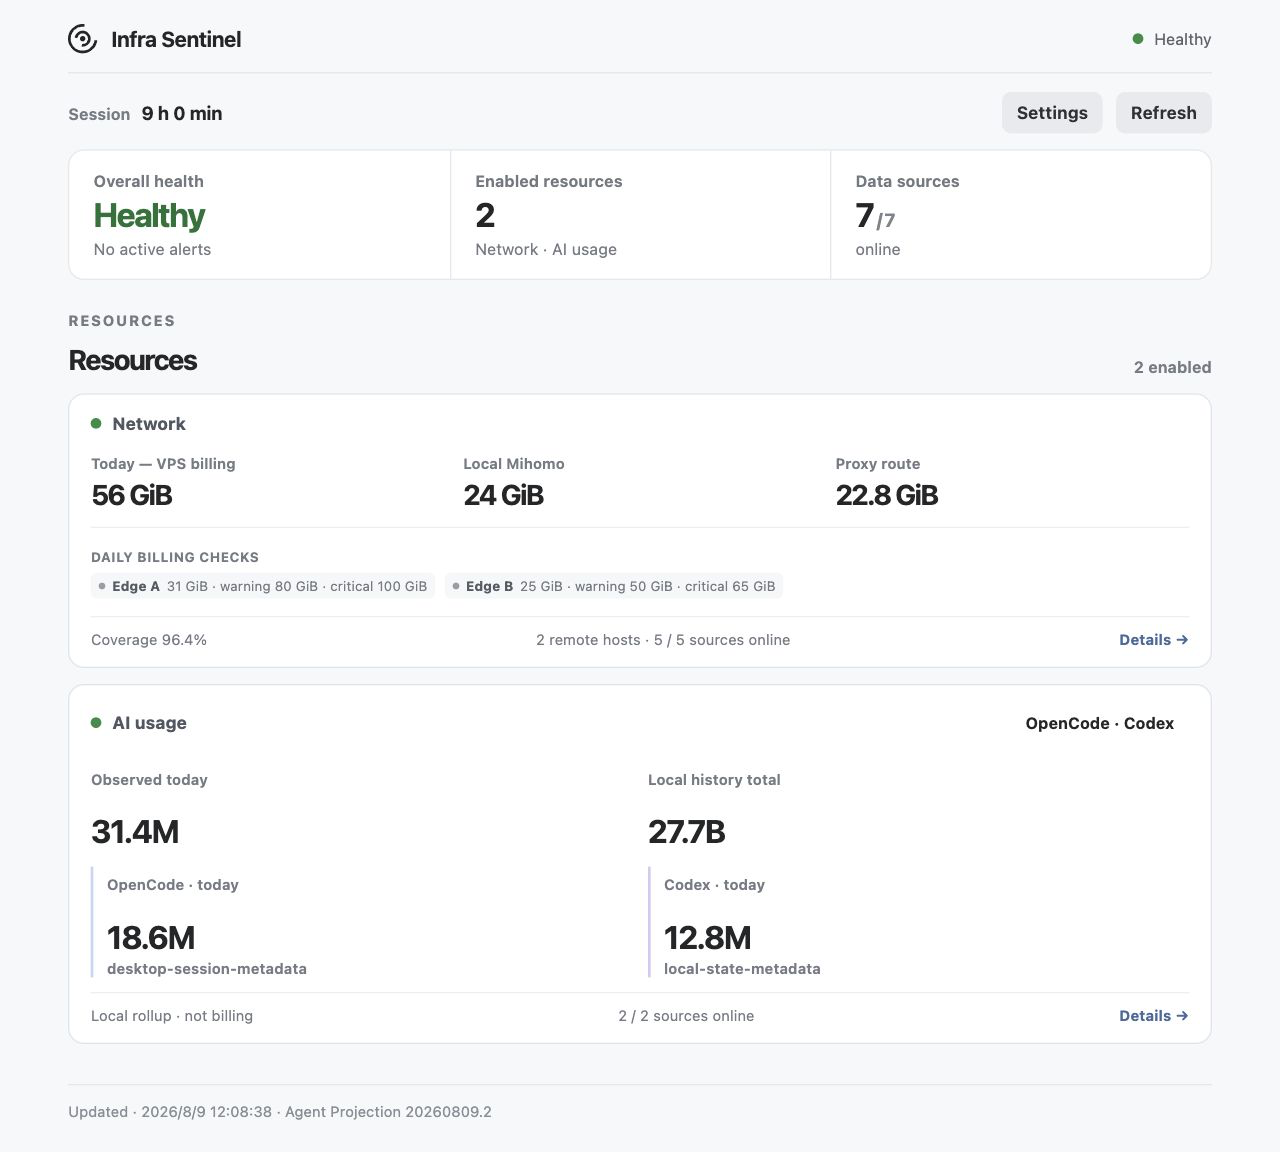
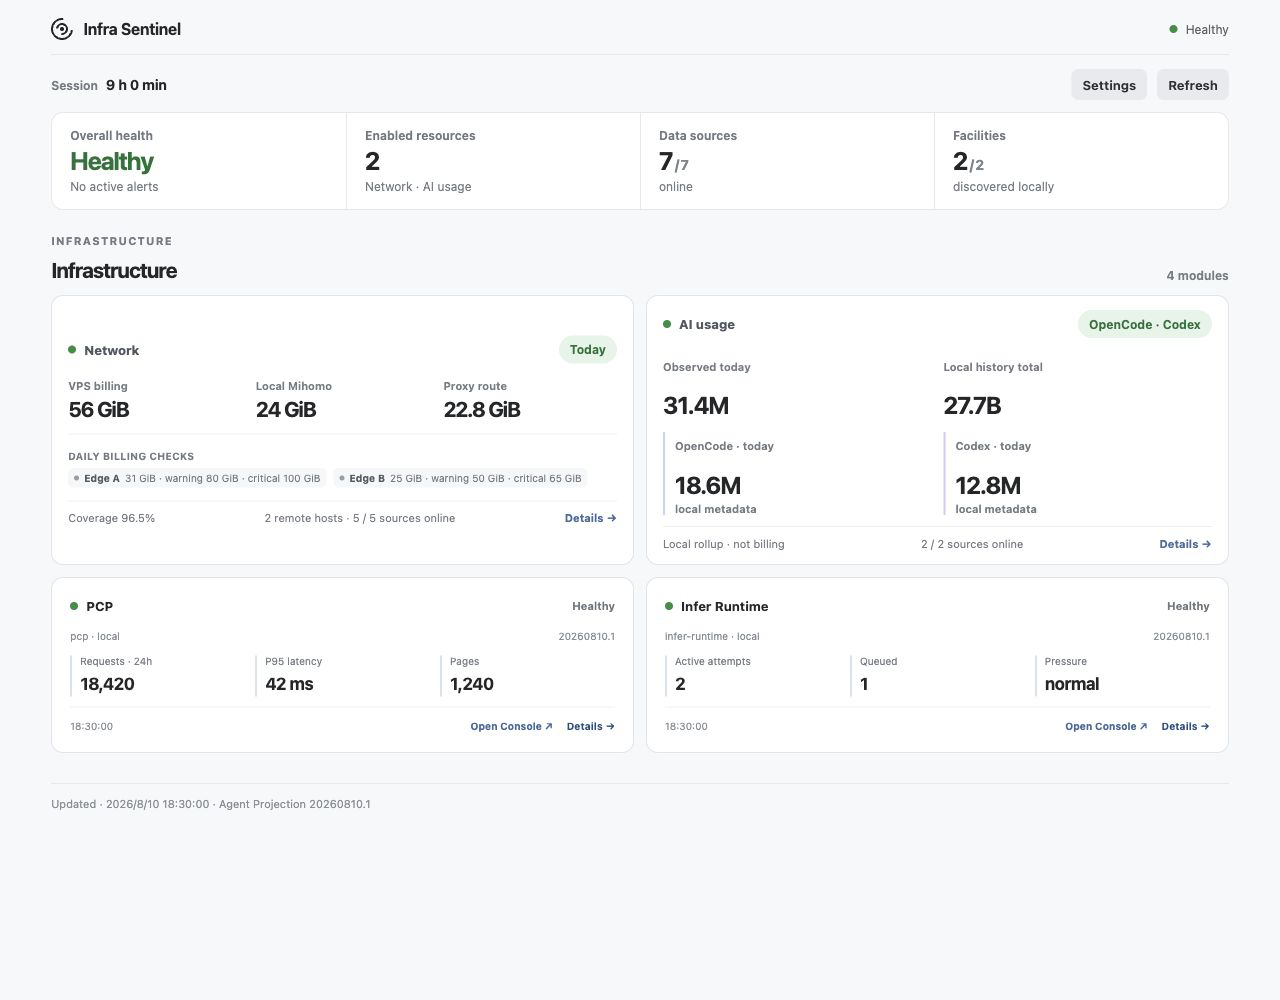
fix: refine docs and AI usage charts

diff --git a/ui/src/ai_usage_view.ts b/ui/src/ai_usage_view.ts
@@ -17,6 +17,10 @@ function escapeHtml(value: unknown): string {
   return String(value ?? "").replace(/[&<>'"]/g, (char) => ({ "&": "&amp;", "<": "&lt;", ">": "&gt;", "'": "&#039;", '"': "&quot;" })[char] ?? char);
 }
 
+function modelLabel(identifier: string): string {
+  return identifier === "__unattributed__" ? tr("Missing model metadata", "缺少模型信息") : identifier;
+}
+
 function localized(value: unknown): string {
   const text = asRecord(value);
   return String(text[currentLocale() === "zh" ? "zh" : "en"] ?? text.en ?? text.zh ?? "");
@@ -75,10 +79,13 @@ function renderCurrentSummary(providerSources: Record<string, unknown>[], source
   return `<section class="ai-usage-summary"><article><p>${tr("Observed today", "今日已观测")}</p><strong>${formatTokens(today)}</strong><small>${tr("Available source windows combined", "合并当前可用来源窗口")}</small></article><article><p>${tr("Local history total", "本机历史总量")}</p><strong>${formatTokens(cumulative)}</strong><small>${tr("All readable local records · not billing", "全部可读本地记录 · 非账单")}</small></article><article><p>${tr("Collector coverage", "采集覆盖")}</p><strong>${online} / ${sources.length}</strong><small>${tr("sources online", "个来源在线")}</small></article><div class="ai-window-coverage"><b>${tr("Window coverage", "统计窗口")}</b>${coverage}</div></section>`;
 }
 
-function horizontalBars(title: string, detail: string, totals: Map<string, number>, colors: string[]): string {
+function horizontalBars(
+  title: string, detail: string, totals: Map<string, number>, colors: string[],
+  labelFor: (identifier: string) => string = (identifier) => identifier,
+): string {
   const ranked = [...totals.entries()].sort((left, right) => right[1] - left[1]).slice(0, 8);
   const maximum = Math.max(...ranked.map(([, value]) => value), 1);
-  return `<article class="detail-panel ai-ranked-panel"><div class="detail-panel__heading"><h3>${escapeHtml(title)}</h3><span>${escapeHtml(detail)}</span></div><div class="ai-ranked-bars">${ranked.map(([label, value], index) => `<div class="ai-ranked-bar"><div><span><i class="chart-dot" style="background:${colors[index % colors.length]}"></i>${escapeHtml(label === "__unattributed__" ? tr("Unattributed", "未归因") : label)}</span><strong>${formatTokens(value)}</strong></div><p><i style="background:${colors[index % colors.length]};width:${Math.max(1, value / maximum * 100)}%"></i></p></div>`).join("") || `<div class="chart-empty">${tr("Waiting for recorded Token increments.", "等待已记录的 Token 增量。")}</div>`}</div></article>`;
+  return `<article class="detail-panel ai-ranked-panel"><div class="detail-panel__heading"><h3>${escapeHtml(title)}</h3><span>${escapeHtml(detail)}</span></div><div class="ai-ranked-bars">${ranked.map(([label, value], index) => `<div class="ai-ranked-bar"><div><span><i class="chart-dot" style="background:${colors[index % colors.length]}"></i>${escapeHtml(labelFor(label))}</span><strong>${formatTokens(value)}</strong></div><p><i style="background:${colors[index % colors.length]};width:${Math.max(1, value / maximum * 100)}%"></i></p></div>`).join("") || `<div class="chart-empty">${tr("Waiting for recorded Token increments.", "等待已记录的 Token 增量。")}</div>`}</div></article>`;
 }
 
 function dailyHistory(
@@ -89,7 +96,7 @@ function dailyHistory(
   const visible = [...totals.entries()].sort((left, right) => right[1] - left[1]).slice(0, 5).map(([id]) => id);
   const colors = dimension === "source" ? SOURCE_COLORS : MODEL_COLORS;
   const series: DailyBarSeries[] = visible.map((id, index) => ({
-    id, label: id === "__unattributed__" ? tr("Unattributed", "未归因") : id, color: colors[index % colors.length],
+    id, label: dimension === "model" ? modelLabel(id) : id, color: colors[index % colors.length],
   }));
   const hasOther = totals.size > visible.length;
   if (hasOther) series.push({ id: "__other__", label: tr("Other", "其他"), color: "#7b8794" });
@@ -145,7 +152,7 @@ function rateTrend(intervals: UsageInterval[], dimension: "source" | "model", wi
   const colors = dimension === "source" ? SOURCE_COLORS : MODEL_COLORS;
   const points = (id: string) => epochs.map((epoch) => `${(epoch - start) / span * 100},${92 - ((values.get(id)?.get(epoch) ?? 0) / maximum) * 82}`).join(" ");
   const startLabel = new Date(window.sinceEpoch * 1_000).toLocaleTimeString([], { hour: "2-digit", minute: "2-digit" });
-  return `<article class="trend-panel"><div class="detail-panel__heading"><h3>${dimension === "source" ? tr("Agent Token rate", "Agent Token 速率") : tr("Model Token rate", "模型 Token 速率")}</h3><span>${tr("Token / min", "Token / 分钟")}</span></div><div class="traffic-chart-frame"><span class="chart-axis-label chart-axis-label--peak">${formatTokens(maximum)}</span><span class="chart-axis-label chart-axis-label--mid">${formatTokens(maximum / 2)}</span><span class="chart-axis-label chart-axis-label--zero">0</span><svg class="traffic-chart" viewBox="0 0 100 100" preserveAspectRatio="none"><path class="chart-grid chart-grid--reference" d="M0 10H100"/><path class="chart-grid" d="M0 51H100M0 92H100"/>${seriesIds.map((id, index) => `<polyline class="chart-line" style="stroke:${colors[index % colors.length]}" points="${points(id)}"/>`).join("")}</svg></div><div class="traffic-chart__timeline"><span>${escapeHtml(startLabel)}</span><span>${tr("Now", "现在")}</span></div><div class="chart-legend">${seriesIds.map((id, index) => `<span><i class="chart-dot" style="background:${colors[index % colors.length]}"></i>${escapeHtml(id === "__unattributed__" ? tr("Unattributed", "未归因") : id)}</span>`).join("")}</div></article>`;
+  return `<article class="trend-panel"><div class="detail-panel__heading"><h3>${dimension === "source" ? tr("Agent Token rate", "Agent Token 速率") : tr("Model Token rate", "模型 Token 速率")}</h3><span>${tr("Token / min", "Token / 分钟")}</span></div><div class="traffic-chart-frame"><span class="chart-axis-label chart-axis-label--peak">${formatTokens(maximum)}</span><span class="chart-axis-label chart-axis-label--mid">${formatTokens(maximum / 2)}</span><span class="chart-axis-label chart-axis-label--zero">0</span><svg class="traffic-chart" viewBox="0 0 100 100" preserveAspectRatio="none"><path class="chart-grid chart-grid--reference" d="M0 10H100"/><path class="chart-grid" d="M0 51H100M0 92H100"/>${seriesIds.map((id, index) => `<polyline class="chart-line" style="stroke:${colors[index % colors.length]}" points="${points(id)}"/>`).join("")}</svg></div><div class="traffic-chart__timeline"><span>${escapeHtml(startLabel)}</span><span>${tr("Now", "现在")}</span></div><div class="chart-legend">${seriesIds.map((id, index) => `<span><i class="chart-dot" style="background:${colors[index % colors.length]}"></i>${escapeHtml(dimension === "model" ? modelLabel(id) : id)}</span>`).join("")}</div></article>`;
 }
 
 function renderOverview(usage: ProjectedUsage, range: AiTimeRange, window: AnalysisTimeWindow): string {
@@ -157,7 +164,7 @@ function renderOverview(usage: ProjectedUsage, range: AiTimeRange, window: Analy
 function renderModels(usage: ProjectedUsage, range: AiTimeRange, window: AnalysisTimeWindow): string {
   const models = usage.modelTotals;
   const selectedTotal = [...models.values()].reduce((sum, value) => sum + value, 0);
-  return `<section class="ai-view-panel"><div class="ai-view-heading"><div><p>${tr("Model total in range", "所选时段模型量")}</p><strong>${formatTokens(selectedTotal)}</strong></div><span>${rangeLabel(range)} · ${tr("mass-conserving", "总量守恒")}</span></div>${horizontalBars(tr("Model composition", "模型构成"), rangeLabel(range), models, MODEL_COLORS)}${range === "today" ? rateTrend(usage.intervals, "model", window) : dailyHistory(usage.intervals, "model", range, window, usage.undatedTotal)}</section>`;
+  return `<section class="ai-view-panel"><div class="ai-view-heading"><div><p>${tr("Model total in range", "所选时段模型量")}</p><strong>${formatTokens(selectedTotal)}</strong></div><span>${rangeLabel(range)} · ${tr("mass-conserving", "总量守恒")}</span></div>${horizontalBars(tr("Model composition", "模型构成"), rangeLabel(range), models, MODEL_COLORS, modelLabel)}${range === "today" ? rateTrend(usage.intervals, "model", window) : dailyHistory(usage.intervals, "model", range, window, usage.undatedTotal)}</section>`;
 }
 
 function providerDetails(source: Record<string, unknown>): string {

diff --git a/ui/src/daily_bar_chart.ts b/ui/src/daily_bar_chart.ts
@@ -67,13 +67,14 @@ export function renderDailyBarChart(
   const legend = usable.length > 1
     ? `<div class="daily-bars__legend">${usable.map((item) => `<span><i class="chart-dot" style="background:${item.color}"></i>${escapeHtml(item.label)}</span>`).join("")}</div>`
     : "";
-  return `<article class="detail-panel daily-history-chart"><div class="detail-panel__heading"><h3>${escapeHtml(options.title)}</h3><span>${escapeHtml(options.detail)}</span></div>${legend}<div class="daily-bars-frame"><span class="daily-bars__axis">${escapeHtml(options.formatValue(maximum))}</span><div class="daily-bars" style="--daily-bucket-count:${Math.max(1, buckets.length)}" role="img" aria-label="${escapeHtml(options.ariaLabel)}">${buckets.map((bucket, index) => {
+  const bucketCount = Math.max(1, buckets.length);
+  return `<article class="detail-panel daily-history-chart"><div class="detail-panel__heading"><h3>${escapeHtml(options.title)}</h3><span>${escapeHtml(options.detail)}</span></div>${legend}<div class="daily-bars-frame" style="--daily-bucket-count:${bucketCount}"><span class="daily-bars__axis">${escapeHtml(options.formatValue(maximum))}</span><div class="daily-bars__plot"><div class="daily-bars" role="img" aria-label="${escapeHtml(options.ariaLabel)}">${buckets.map((bucket) => {
     const title = tooltip(bucket, usable, options.formatValue);
     const empty = usable.every((item) => !(bucket.values.get(item.id) ?? 0));
-    return `<div class="daily-bar-day${empty ? " daily-bar-day--empty" : ""}"><div class="daily-bar-day__bars${stacked ? " daily-bar-day__bars--stacked" : ""}" title="${escapeHtml(title)}">${usable.map((item) => {
+    return `<div class="daily-bar-day${empty ? " daily-bar-day--empty" : ""}" title="${escapeHtml(title)}"><div class="daily-bar-day__bars${stacked ? " daily-bar-day__bars--stacked" : ""}">${usable.map((item) => {
       const value = bucket.values.get(item.id) ?? 0;
       const height = value > 0 ? Math.max(4, (value / maximum) * 100) : 0;
       return `<i style="--daily-bar-color:${item.color};height:${height}%"></i>`;
-    }).join("")}</div><span title="${escapeHtml(dayLabel(bucket.epoch))}">${showDayLabel(index, buckets.length) ? escapeHtml(dayLabel(bucket.epoch)) : ""}</span></div>`;
-  }).join("")}</div></div><p class="panel-footnote">${escapeHtml(options.footnote)}</p></article>`;
+    }).join("")}</div></div>`;
+  }).join("")}</div></div><div class="daily-bars__labels" aria-hidden="true">${buckets.map((bucket, index) => `<span title="${escapeHtml(dayLabel(bucket.epoch))}">${showDayLabel(index, buckets.length) ? escapeHtml(dayLabel(bucket.epoch)) : ""}</span>`).join("")}</div></div><p class="panel-footnote">${escapeHtml(options.footnote)}</p></article>`;
 }

diff --git a/ui/src/daily_bar_chart.css b/ui/src/daily_bar_chart.css
@@ -1,5 +1,4 @@
 .daily-bars-frame {
-  background: linear-gradient(to bottom, transparent 49.5%, #edf0f3 50%, transparent 50.5%);
   border-top: 1px dashed #dce2e8;
   padding: 8px 0 0 54px;
   position: relative;
@@ -17,9 +16,40 @@
   white-space: nowrap;
 }
 
+.daily-bars__plot {
+  background: linear-gradient(to bottom, transparent 49.5%, #edf0f3 50%, transparent 50.5%);
+  height: 128px;
+  overflow: hidden;
+}
+
 .daily-bars {
+  gap: 7px;
   grid-template-columns: repeat(var(--daily-bucket-count), minmax(0, 1fr));
-  padding-top: 0;
+  height: 100%;
+  padding: 0 2px;
+}
+
+.daily-bar-day {
+  display: block;
+  height: 100%;
+}
+
+.daily-bars__labels {
+  display: grid;
+  gap: 7px;
+  grid-template-columns: repeat(var(--daily-bucket-count), minmax(0, 1fr));
+  min-height: 13px;
+  padding: 7px 2px 0;
+}
+
+.daily-bars__labels span {
+  color: #858b93;
+  font-size: 9px;
+  min-width: 0;
+  overflow: hidden;
+  text-align: center;
+  text-overflow: ellipsis;
+  white-space: nowrap;
 }
 
 .daily-bar-day--empty .daily-bar-day__bars::after {
@@ -38,12 +68,14 @@
 .daily-bar-day__bars--stacked {
   align-items: center;
   flex-direction: column-reverse;
-  gap: 1px;
+  gap: 0;
   justify-content: flex-start;
   max-width: 28px;
 }
 
 .daily-bar-day__bars--stacked i {
+  border-top: 1px solid #fff;
+  box-sizing: border-box;
   flex: 0 0 auto;
   max-width: none;
   min-height: 0;

diff --git a/README.md b/README.md
@@ -17,7 +17,7 @@ The menu bar icon only communicates overall health. Open the app to inspect reso
 
 Infra Sentinel does not capture packets, read prompts or response bodies, inspect URL paths or project files, terminate processes, delete files, disconnect the network, or modify proxy configuration.
 
-![Infra Sentinel network and AI resource modules](assets/overview-en.png)
+![Infra Sentinel overview](assets/overview-en.png)
 
 ![Infra Sentinel AI usage](assets/ai-usage-en.png)
 
@@ -96,22 +96,20 @@ Historical queries run through a dedicated read-only channel and do not wait for
 
 ## Local facility discovery
 
-Participating services publish a short-lived, owner-only
-[`infra.discovery.registration@20260810.1`](https://github.com/glenzli/infra-protocol) lease. Sentinel
-discovers these leases without scanning ports or guessing process names, intersects exact protocol
-versions and bindings, and connects to the selected service. Discovery carries no metrics, Console
-URL, request envelope, or control authority.
+Participating services publish a short-lived, owner-only lease defined by
+[Infra Protocol](https://github.com/glenzli/infra-protocol). Sentinel discovers these leases without
+scanning ports or guessing process names, intersects exact protocol versions and bindings, and
+connects to the selected service. Discovery carries no metrics, Console URL, request envelope, or
+control authority.
 
 Current verified integrations are
-[Paged Context Protocol (PCP)](https://github.com/glenzli/paged-context-protocol) through
-`pcp.runtime.observer@20260810.1`, and
-[Infer Runtime](https://github.com/glenzli/infer-runtime) through
-`infer-runtime.status@20260810.1`. These application protocols remain independent; Infra Protocol
-only standardizes discovery. Sentinel implements one adapter for each and normalizes only bounded
-status, metrics, issues, observation time, and an optional loopback **Open Console** link into its
-private UI projection. Every discovered facility is presented as its own first-class module and
-detail view. Unknown protocols are ignored rather than guessed compatible. See
-[facility discovery](docs/facility-discovery.md).
+[Paged Context Protocol (PCP)](https://github.com/glenzli/paged-context-protocol) and
+[Infer Runtime](https://github.com/glenzli/infer-runtime). Their application protocols remain
+independent; Infra Protocol only standardizes discovery. Sentinel implements one adapter for each
+and normalizes only bounded status, metrics, issues, observation time, and an optional loopback
+**Open Console** link into its private UI projection. Every discovered facility is presented as its
+own first-class module and detail view. Unknown protocols are ignored rather than guessed
+compatible. See [facility discovery](docs/facility-discovery.md).
 
 ## Architecture
 
@@ -131,7 +129,9 @@ Local facilities → Infra Protocol discovery → provider adapters ────
 - Collector failures are isolated so one unavailable source cannot block other resources;
 - Facility discovery and provider-protocol I/O have their own lifecycle and never block resource sampling.
 
-The current local Projection protocol version is `20260810.1`. Metric queries support minute, 5-minute, hourly, and daily aggregation, with bounded time ranges and result counts.
+Projection and discovery contracts use date-versioned schemas and require an exact compatible
+version. Metric queries support minute, 5-minute, hourly, and daily aggregation, with bounded time
+ranges and result counts.
 
 ## Support matrix
 
@@ -204,7 +204,7 @@ Host edge-a
 
 To enable Xray user statistics, assign a unique `email` label to every client, enable per-user uplink and downlink statistics, and keep StatsService bound to the remote loopback address. Exact fields follow Xray’s own configuration format; Infra Sentinel never modifies server configuration automatically.
 
-Configuration contracts use `YYYYMMDD.revision`. The current version is `20260808.4`. The default configuration contains no real host or account.
+Configuration contracts use `YYYYMMDD.revision`. The default configuration contains no real host or account.
 
 ## Local data and privacy
 
